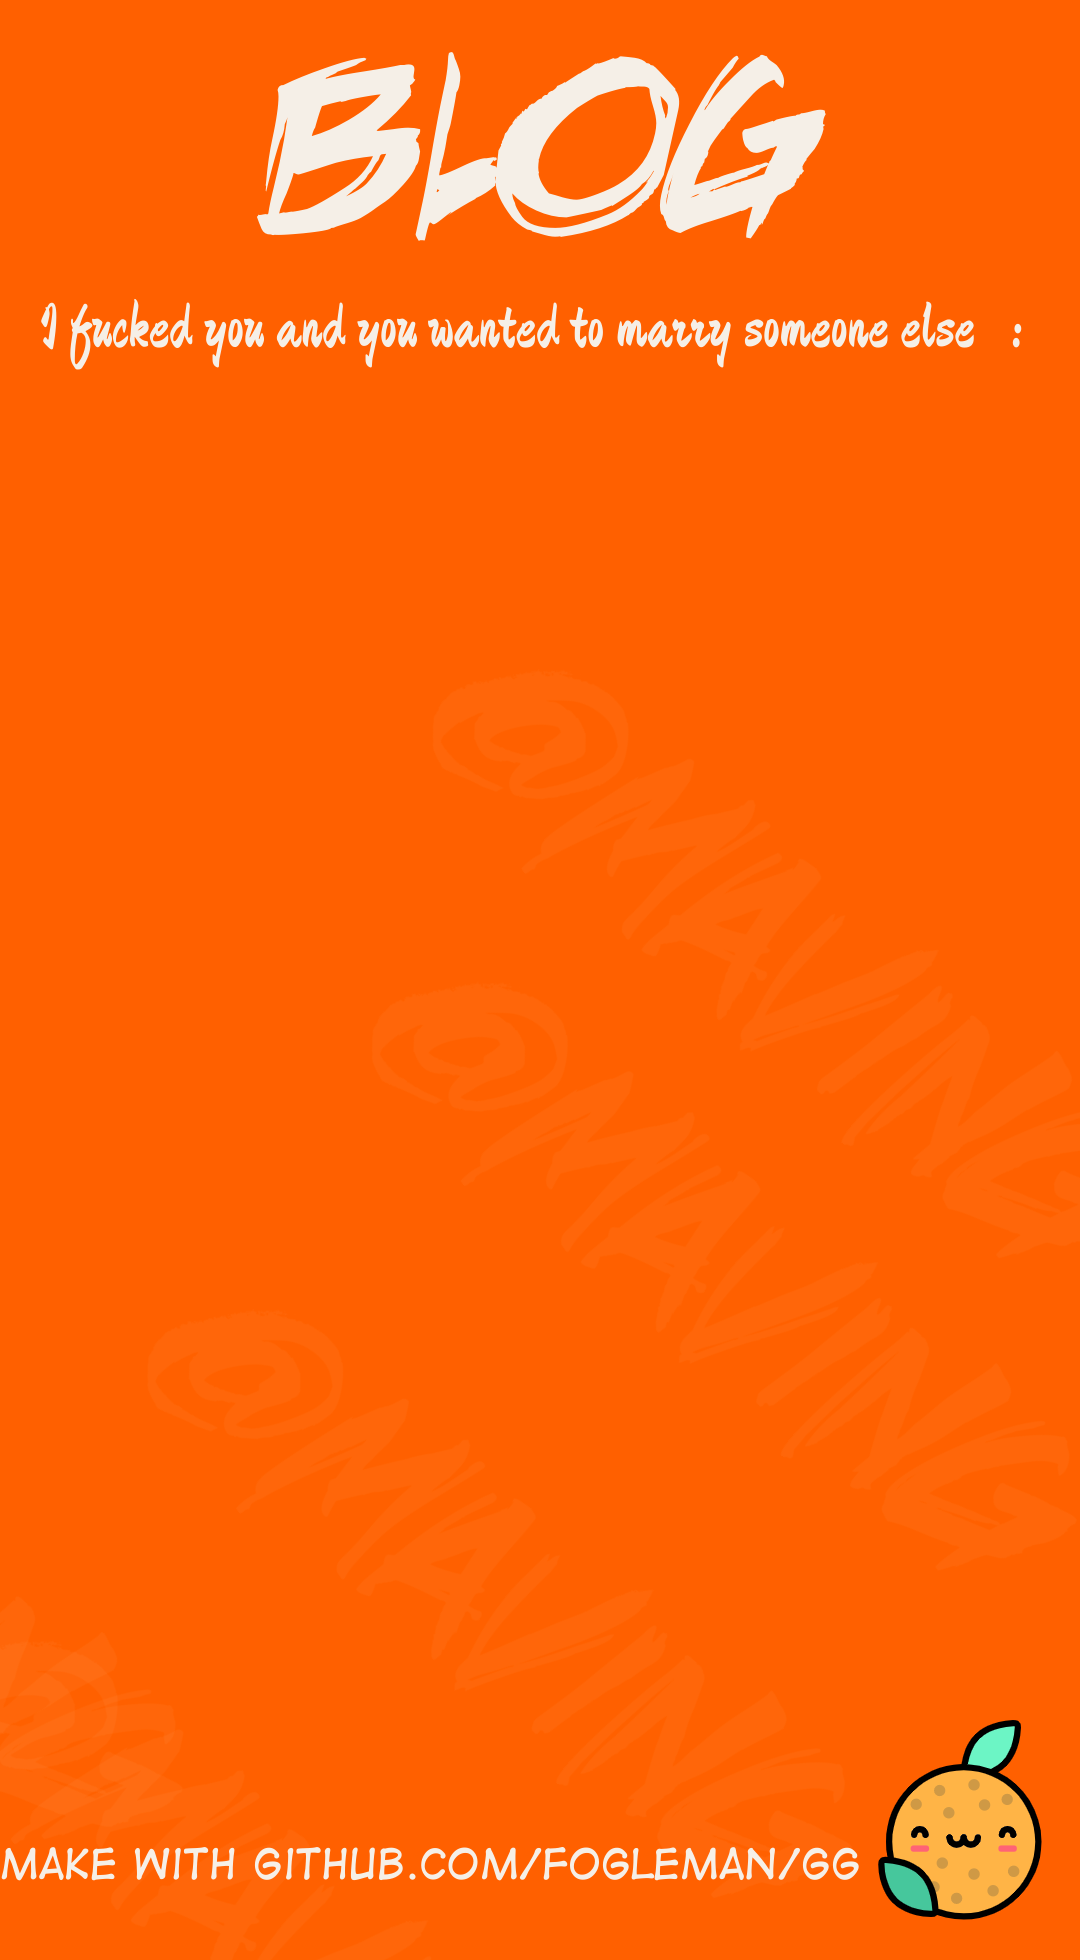
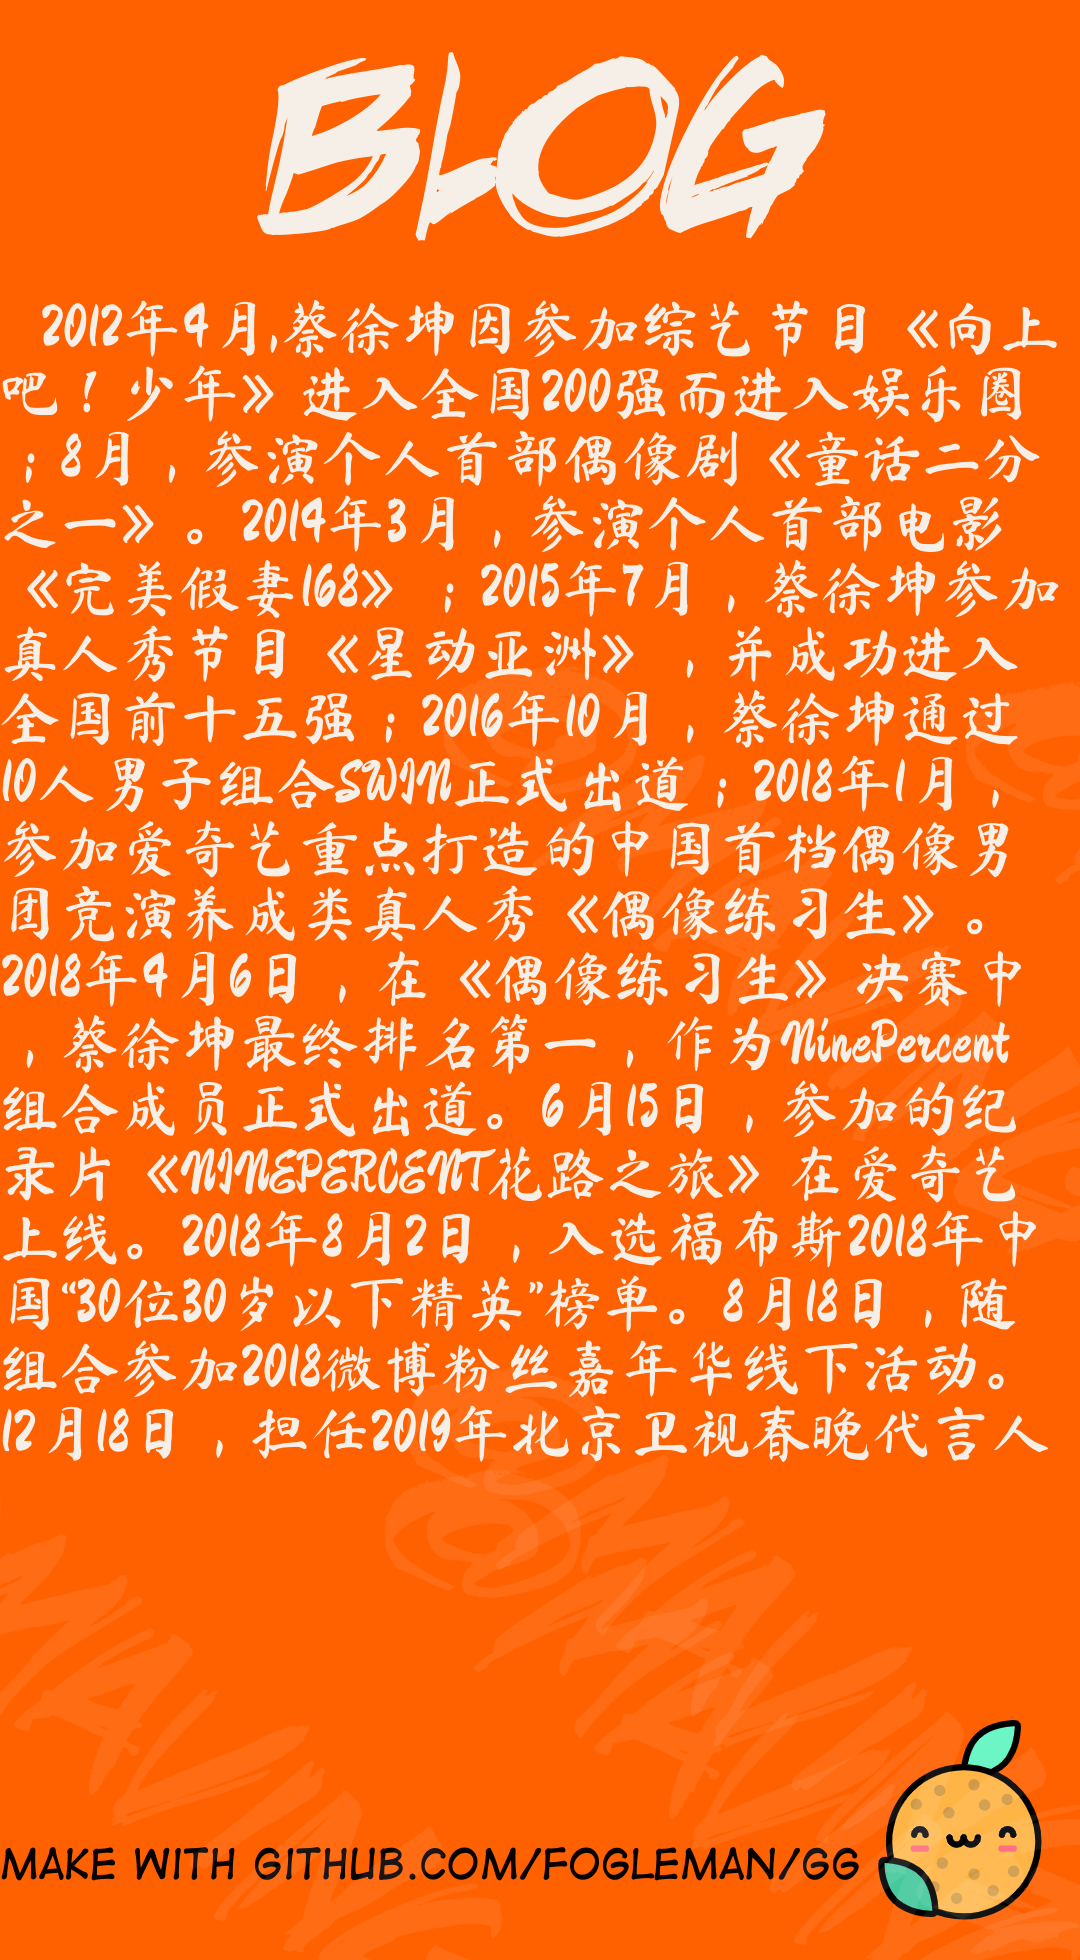
修复bug

diff --git a/controller/file.go b/controller/file.go
@@ -85,6 +85,7 @@ func CreateImg(c *gin.Context) {
 	lheight := 65
 	s := ""
 	var k float64 = 0
+	var h float64 = 0
 	dc := gg.NewContext(width, height)
 
 	orange, err := gg.LoadImage("./img/o.png")
@@ -109,12 +110,17 @@ func CreateImg(c *gin.Context) {
 	strlengths, _ := dc.MeasureString(strings.ReplaceAll(str, " ", ""))
 	fmt.Println("len", strlengths)
 	if strlengths < 1080 {
+		//不足1行
 		dc.DrawString(str, 40, 350+float64(0)*float64(lheight))
 	} else {
+		//多行
 		for _, r := range strings.ReplaceAll(str, " ", "") {
-			width, h := dc.MeasureString(string(r))
+			width, heights := dc.MeasureString(string(r))
+			//拼接字符串
 			s += string(r)
+			//计算宽度，满1行
 			k += width
+			h += heights
 			if k >= 1000 {
 				list = append(list, s)
 				k = 0
@@ -132,24 +138,18 @@ func CreateImg(c *gin.Context) {
 			dc.DrawString(s, 0, 350+float64(i)*float64(lheight))
 		}
 	}
-	//for _, i2 := range str {
-	//	s += string(i2)
-	//	if k%18 == 0 {
-	//		lens = append(lens, s)
-	//		s = ""
-	//	}
-	//	k++
-	//}
 
 	//dc.DrawStringWrapped(str, 00, 350, 0.5, 0.5, 1080, 1, 0)
 
 	dc.SetFontFace(l)
 	//logo
+	dc.SetHexColor("#080202")
 	dc.DrawStringAnchored("make with github.com/fogleman/gg", 430, float64(height-100), 0.5, 0.5)
 
+	dc.SetColor(color.RGBA{245, 239, 231, 255})
 	dc.SetFontFace(f)
 	dc.DrawStringAnchored("BLOg", float64(width)/2, float64(80), 0.5, 0.5)
-	dc.SetColor(color.RGBA{245, 239, 231, 10})
+	dc.SetColor(color.RGBA{245, 239, 231, 20})
 	//橘子图标
 	dc.DrawImageAnchored(orange, width-120, height-140, 0.5, 0.5)
 
